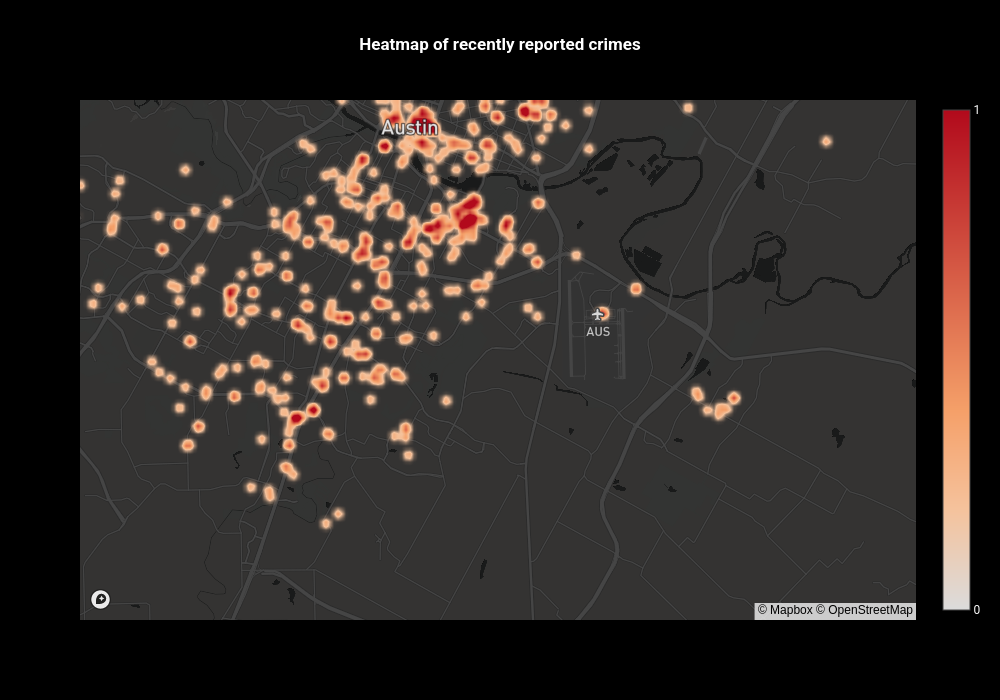
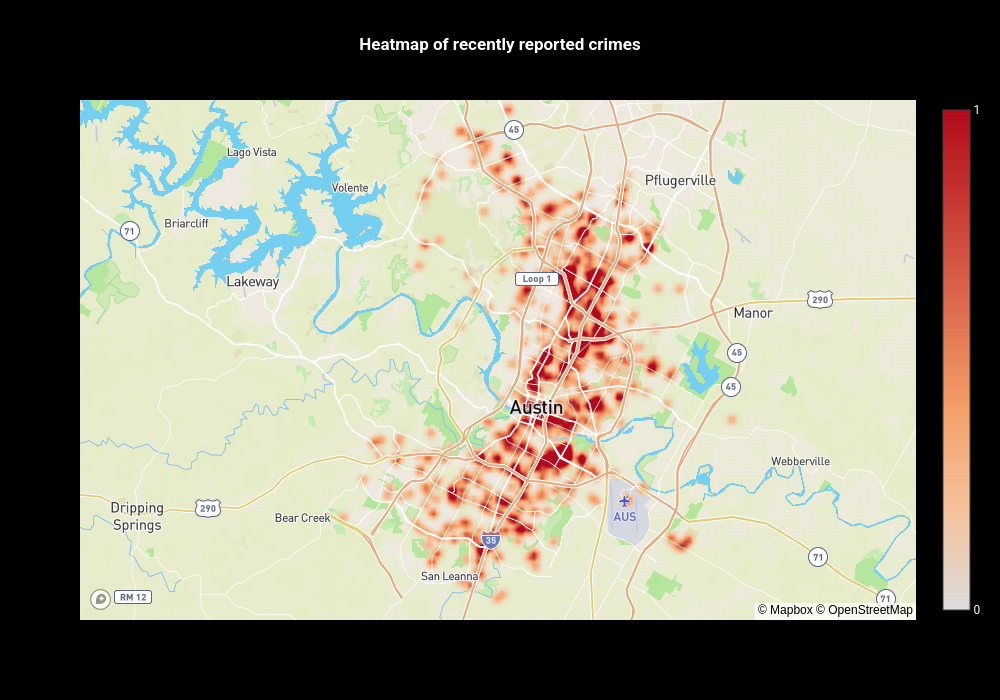
added data

diff --git a/index.html b/index.html
@@ -1,4 +1,3 @@
-
 <!DOCTYPE html>
 <html lang="en">
 
@@ -11,6 +10,8 @@
     <title>Crime Visualizer</title>
     
     <!-- Plotly CDN -->
+    <script type="text/javascript" src="./assets/plotlyjs-bundle.js"></script>
+    <script type="text/javascript" src="./assets/figure.js"></script>
     <script src="https://cdn.plot.ly/plotly-latest.min.js" charset="utf-8"></script>
     <script src='https://cdn.plot.ly/plotly-latest.min.js'></script>
     <script src='https://api.mapbox.com/mapbox.js/v3.3.1/mapbox.js'></script>
@@ -27,7 +28,6 @@
     </div>
 
     <div class="main">
-        
         <h2>Annual Homicides by year</h2>
             <div id="annualHomicide" style="width:600px;height:550px;"></div>
         <h2>Total property crime by year</h2>
@@ -54,75 +54,46 @@
                 <li>2020 - 977, 482</li>
             </ul>
         </div>
+        <div class="dropdown_container">
         <div class="showcase__section" id="bubble" >
-            <div class="spacer" ></div>
+            <div class="spacer --small" ></div>
             <div id="bubbleplots">
                 <div class="bubbleplot"  data-num="0">
                     <div class="plot" id="plotdiv" ></div>
-                    <div class="control-row">
+                    <div class="control-row"> 
                         Year: <select class="yeardata">
                         </select>
                     </div>
                 </div>
             </div>
         </div>
-    <script type="text/javascript" src="./assets/plotlyjs-bundle.js"></script>
-    
-    
-    <script type="text/javascript" src="./assets/figure.js"></script>
-    
-    <div id="9cc2e66a-a1d9-4479-a0d0-cea5187e6bdb" style="width: 500px; height: 350px;" class="plotly-graph-div"></div>
-    <script type="text/javascript">
-        (function () {
-            window.PLOTLYENV = { 'BASE_URL': 'https://plotly.com' };
+        </div>
 
-            var gd = document.getElementById('9cc2e66a-a1d9-4479-a0d0-cea5187e6bdb')
-            var resizeDebounce = null;
+        <div id="cf69e16b-24b2-4e5b-8781-79c0ba4d9b2c" style="width: 1000px; height: 700px;" class="plotly-graph-div"></div>
+        <script type="text/javascript">
+            (function () {
+                window.PLOTLYENV = { 'BASE_URL': 'https://plotly.com' };
 
-            function resizePlot() {
-                var bb = gd.getBoundingClientRect();
-                Plotly.relayout(gd, {
-                    width: bb.width,
-                    height: bb.height
+                var gd = document.getElementById('cf69e16b-24b2-4e5b-8781-79c0ba4d9b2c')
+                var resizeDebounce = null;
+
+                function resizePlot() {
+                    var bb = gd.getBoundingClientRect();
+                    Plotly.relayout(gd, {
+                        width: bb.width,
+                        height: bb.height
+                    });
+                }
+
+                Plotly.plot(gd, {
+                    data: figure.data,
+                    layout: figure.layout,
+                    frames: figure.frames,
+                    config: { "showLink": true, "linkText": "Export to plotly.com", "mapboxAccessToken": "pk.eyJ1IjoiY2hyaWRkeXAiLCJhIjoiY2lxMnVvdm5iMDA4dnhsbTQ5aHJzcGs0MyJ9.X9o_rzNLNesDxdra4neC_A" }
                 });
-            }
 
-
-
-
-            Plotly.plot(gd, {
-                data: figure.data,
-                layout: figure.layout,
-                frames: figure.frames,
-                config: { "showLink": true, "linkText": "Export to plotly.com", "mapboxAccessToken": "pk.eyJ1IjoiY2hyaWRkeXAiLCJhIjoiY2lxMnVvdm5iMDA4dnhsbTQ5aHJzcGs0MyJ9.X9o_rzNLNesDxdra4neC_A" }
-            });
-
-        }());
-    </script>
-    <!-- <div id="title2010"><h2>Annual homicides by month</h2></div>
-        <h3>2010</h3>
-        <div id="monthlyHomicide10" style="width:1400px;height:250px;"></div>
-        <h3>2011</h3>
-        <div id="monthlyHomicide11" style="width:1400px;height:250px;"></div>
-        <h3>2012</h3>
-        <div id="monthlyHomicide12" style="width:1400px;height:250px;"></div>
-        <h3>2013</h3>
-        <div id="monthlyHomicide13" style="width:1400px;height:250px;"></div>
-        <h3>2014</h3>
-        <div id="monthlyHomicide14" style="width:1400px;height:250px;"></div>
-        <h3>2015</h3>
-        <div id="monthlyHomicide15" style="width:1400px;height:250px;"></div>
-        <h3>2016</h3>
-        <div id="monthlyHomicide16" style="width:1400px;height:250px;"></div>
-        <h3>2017</h3>
-        <div id="monthlyHomicide17" style="width:1400px;height:250px;"></div>
-        <h3>2018</h3>
-        <div id="monthlyHomicide18" style="width:1400px;height:250px;"></div>
-        <h3>2019</h3>
-        <div id="monthlyHomicide19" style="width:1400px;height:250px;"></div>
-        <h3>2020</h3>
-        <div id="monthlyHomicide20" style="width:1400px;height:250px;"></div>
-    </div> -->
+            }());
+            </script> 
 </div>
 
 <script src="./assets/app.js"></script>

diff --git a/assets/app.js b/assets/app.js
@@ -20,6 +20,7 @@ Plotly.newPlot(annualAgg, [{
         yaxis: { range: [1800, 3500] }
 });
 
+//Cumulative
 annualRob = document.getElementById('annualRob');
 Plotly.newPlot(annualRob, [{
     x: [2011, 2012, 2013, 2014, 2015, 2016, 2017, 2018, 2019, 2020],
@@ -29,6 +30,8 @@ Plotly.newPlot(annualRob, [{
 }], {
         yaxis: { range: [400, 1250] }
 });
+
+//Cumulative
 annualAuto = document.getElementById('annualAuto');
 Plotly.newPlot(annualAuto, [{
     x: [2011, 2012, 2013, 2014, 2015, 2016, 2017, 2018, 2019, 2020],
@@ -37,8 +40,9 @@ Plotly.newPlot(annualAuto, [{
     name: 'Auto theft (# of vehicles) By year'
 }], {
     yaxis: { range: [1500, 4000] }
-
 });
+//Cumulative
+
 annualProperty = document.getElementById('annualProperty');
 Plotly.newPlot(annualProperty, [{
     x: [2011, 2012, 2013, 2014, 2015, 2016, 2017, 2018, 2019, 2020],
@@ -53,37 +57,37 @@ Plotly.newPlot(annualProperty, [{
 
 
 
-Plotly.d3.csv(
-    "https://raw.githubusercontent.com/plotly/datasets/master/2015_06_30_precipitation.csv",
-    function (err, rows) {
-        function unpack(rows, key) {
-            return rows.map(function (row) {
-                return row[key];
-            });
-        }
+// Plotly.d3.csv(
+//     "https://raw.githubusercontent.com/plotly/datasets/master/2015_06_30_precipitation.csv",
+//     function (err, rows) {
+//         function unpack(rows, key) {
+//             return rows.map(function (row) {
+//                 return row[key];
+//             });
+//         }
 
-        var data = [
-            {
-                type: "scattermapbox",
-                text: unpack(rows, "Globvalue"),
-                lon: unpack(rows, "Lon"),
-                lat: unpack(rows, "Lat"),
-                marker: { color: "fuchsia", size: 4 }
-            }
-        ];
+//         var data = [
+//             {
+//                 type: "scattermapbox",
+//                 text: unpack(rows, "Globvalue"),
+//                 lon: unpack(rows, "Lon"),
+//                 lat: unpack(rows, "Lat"),
+//                 marker: { color: "fuchsia", size: 4 }
+//             }
+//         ];
 
-        var layout = {
-            dragmode: "zoom",
-            mapbox: { style: "open-street-map", center: { lat: 30.286666, lon: -97.733330 }, zoom: 9 },
-            margin: { r: 400, t: 5, b: 5, l: 400 }
-        };
+//         var layout = {
+//             dragmode: "zoom",
+//             mapbox: { style: "open-street-map", center: { lat: 30.286666, lon: -97.733330 }, zoom: 9 },
+//             margin: { r: 400, t: 5, b: 5, l: 400 }
+//         };
 
-        Plotly.newPlot("myDiv", data, layout);
-    }
-);
+//         Plotly.newPlot("myDiv", data, layout);
+//     }
+// );
 
 //=======================stacked graph/y=======================//
-Plotly.d3.csv('./crime.csv', function (err, rows) {
+Plotly.d3.csv('../CrimeStats/crime.csv', function (err, rows) {
 
     function unpack(rows, key) {
         return rows.map(function (row) { return row[key]; });
@@ -229,8 +233,14 @@ var trace11 = {
     name: '2020',
     type: 'bar'
 };
+var trace12 = {
+    x: ['January', 'February', 'March', 'April', 'May', 'June', 'July', 'August', 'September', 'October', 'November', 'December'],
+    y: [5, 6, 5],
+    name: '2021',
+    type: 'bar'
+};
 
-var data = [trace1, trace2, trace3, trace4, trace5, trace6, trace7, trace8, trace9, trace10, trace11];
+var data = [trace1, trace2, trace3, trace4, trace5, trace6, trace7, trace8, trace9, trace10, trace11, trace12];
 
 var layout = { barmode: 'group' };
 

diff --git a/assets/figure.js b/assets/figure.js
@@ -3118,12 +3118,12 @@ var figure = {
         },
         "height": 700,
         "mapbox": {
-            "zoom": 10.767762023004016,
+            "zoom": 9.676987595600735,
             "pitch": 0,
-            "style": "dark",
+            "style": "outdoors",
             "center": {
-                "lat": 30.185813312887106,
-                "lon": -97.70812976221384
+                "lat": 30.306183737661314,
+                "lon": -97.77663285438126
             },
             "domain": {
                 "x": [
